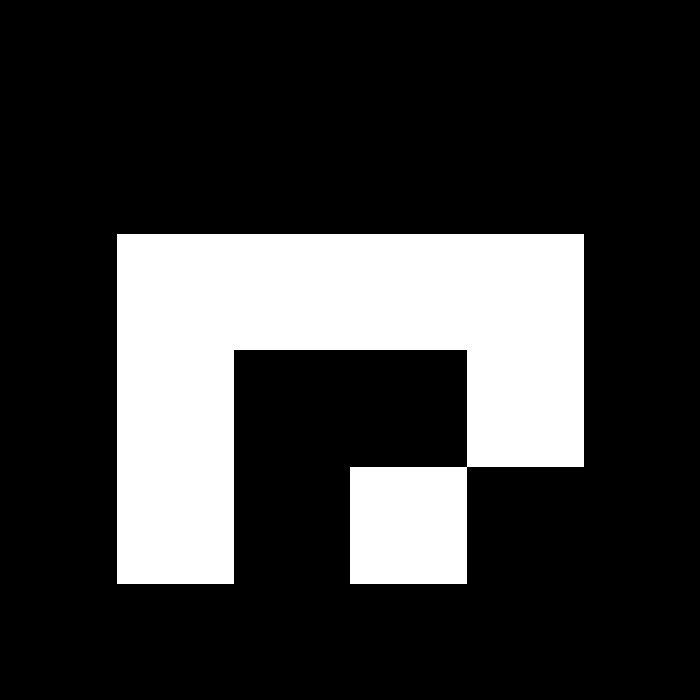
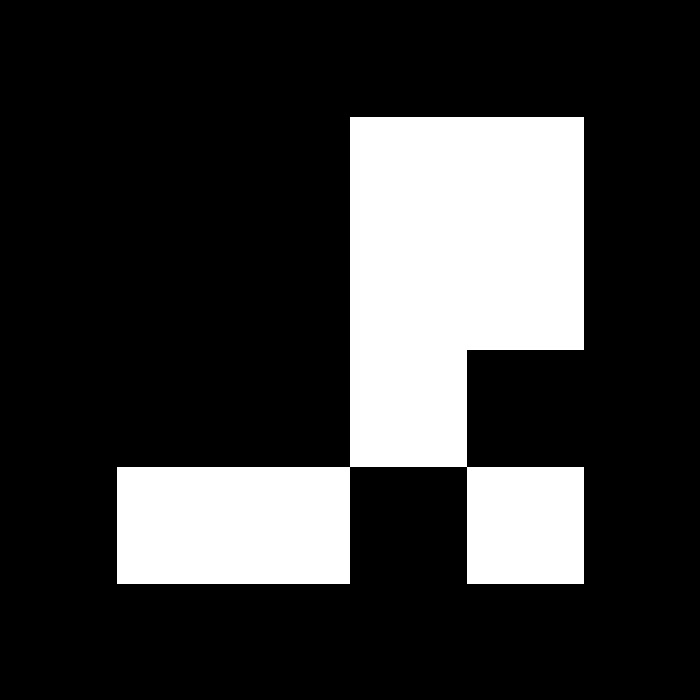
new aruco tags

Changed region(s): [[0.15, 0.15, 0.84, 0.84]]

diff --git a/tracking/aruco_gen.py b/tracking/aruco_gen.py
@@ -7,8 +7,8 @@ aruco_dict = aruco.Dictionary_get(aruco.DICT_4X4_250)
 print(aruco_dict)
 # second parameter is id number
 # last parameter is total image size
-img = aruco.drawMarker(aruco_dict, 3, 700)
-cv2.imwrite("test_markerv2_2.jpg", img)
+img = aruco.drawMarker(aruco_dict, 2, 700)
+cv2.imwrite("test_markerv2_3.jpg", img)
  
 cv2.imshow('frame',img)
 cv2.waitKey(0)
